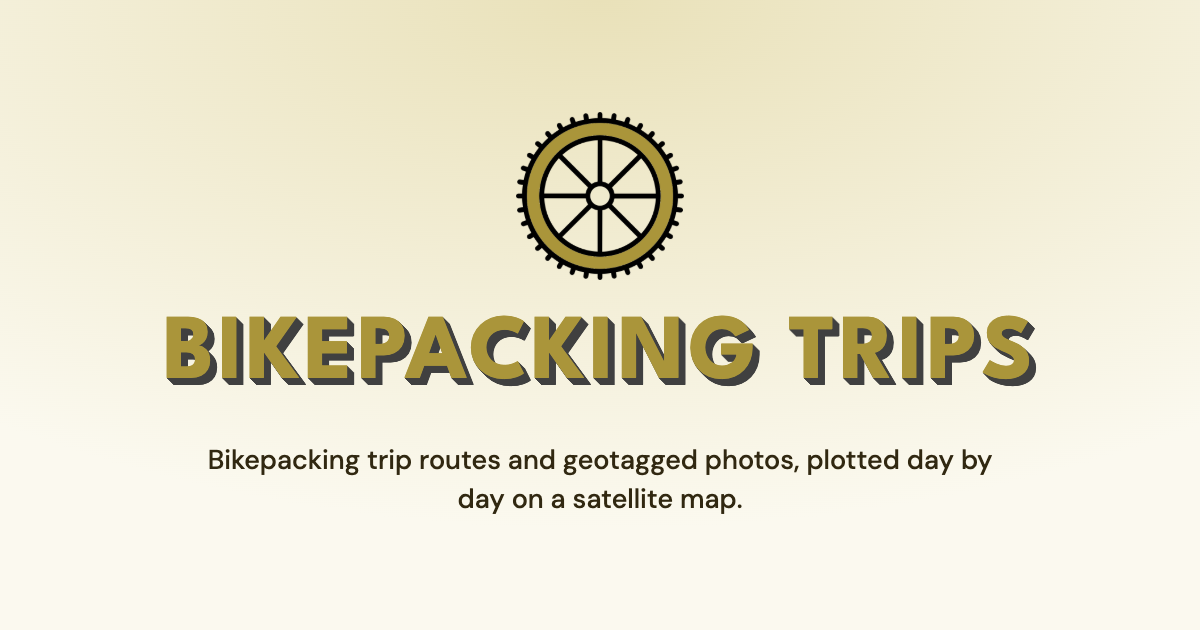
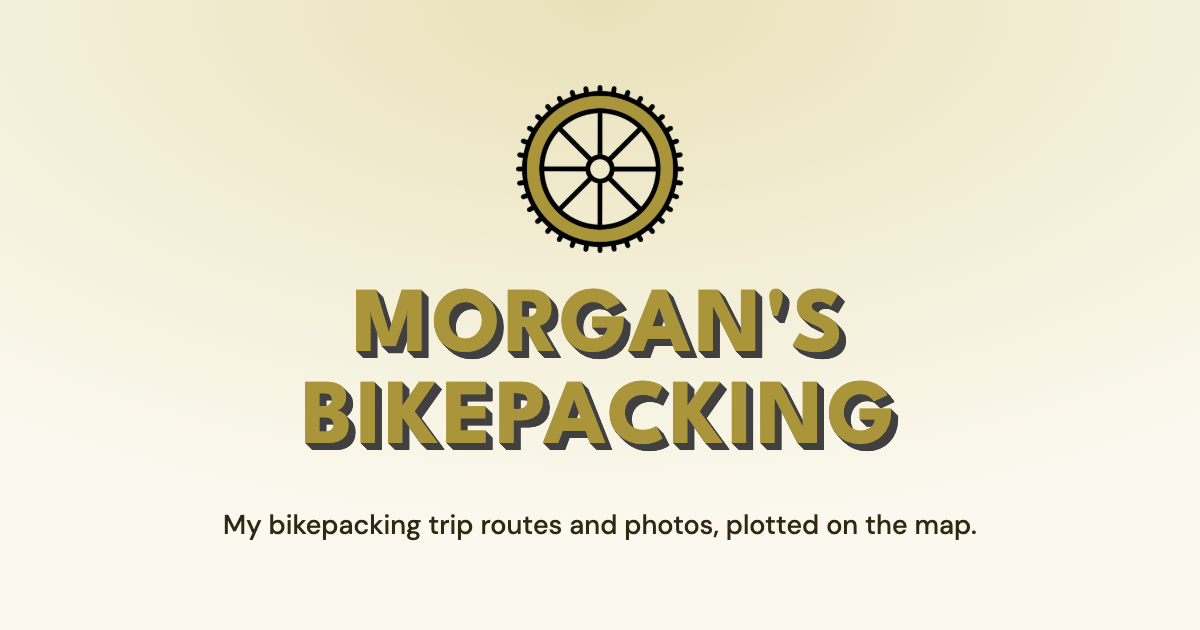
gen pngs

Changed region(s): [[0.1233, 0.1206, 0.8633, 0.8746]]

diff --git a/src/routes/+layout.svelte b/src/routes/+layout.svelte
@@ -3,6 +3,7 @@
   import { page } from '$app/state';
   import { Badge } from '$lib/components/ui/badge/index.js';
   import { Copyright, ExternalLink } from '@lucide/svelte';
+  import { SITE_NAME } from '$lib/seo';
 
   let { children } = $props();
   const isHome = $derived(page.url.pathname === '/');
@@ -12,9 +13,9 @@
   <a href="/" class="mx-auto text-center">
     <h1 class="text-3xl lg:text-6xl uppercase w-fit mx-auto mb-3 mt-4">
       {#if isHome}
-        Bikepacking Trips
+        {SITE_NAME}
       {:else}
-        {page.url.pathname.split('/')[1].replace('-', ' ')}
+        {page.url.pathname.split('/')[1].replaceAll('-', ' ')}
       {/if}
     </h1>
   </a>

diff --git a/src/lib/seo.ts b/src/lib/seo.ts
@@ -8,10 +8,9 @@
  */
 export const SITE_URL = 'https://bikepacking.mogdan.xyz';
 
-export const SITE_NAME = 'Bikepacking Trips';
+export const SITE_NAME = "Morgan's Bikepacking";
 
-export const SITE_DESCRIPTION =
-  'Bikepacking trip routes and geotagged photos, plotted day by day on a satellite map.';
+export const SITE_DESCRIPTION = 'My bikepacking trip routes and photos, plotted on the map.';
 
 /** --color-hazy-ipa. Tints mobile browser chrome and the installed app's title bar. */
 export const THEME_COLOR = '#aa953a';

diff --git a/src/routes/+page.svelte b/src/routes/+page.svelte
@@ -11,7 +11,7 @@
   title={SITE_NAME}
   description={SITE_DESCRIPTION}
   path="/"
-  ogAlt="A bicycle wheel above the words Bikepacking Trips"
+  ogAlt="A bicycle wheel above the words {SITE_NAME}"
 />
 
 <ol class="mx-auto flex max-w-5xl flex-col gap-10 px-4 pt-4 pb-24 sm:px-8 sm:gap-14">
